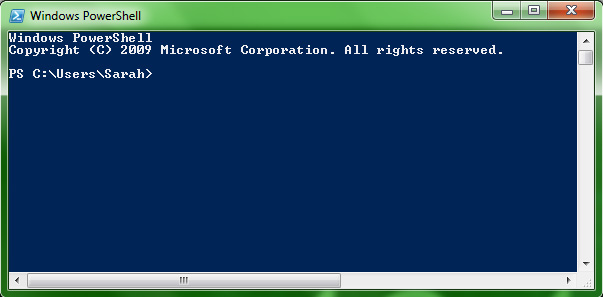
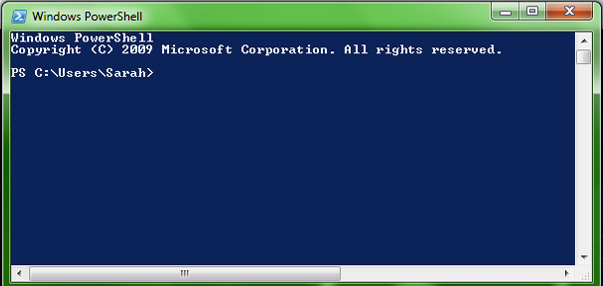
Formatting and updated screeshots.

Changed region(s): [[0.0, 0.0, 1.0, 1.0]]

diff --git a/1-HTML-CSS/week3/day4/1-command_line.md b/1-HTML-CSS/week3/day4/1-command_line.md
@@ -30,10 +30,10 @@ For Windows, open the application called **Powershell**:
 
 What you should see is a relatively blank window. Terminal (Mac) has a white background and the Powershell (Windows) has a blue/black background, by default.
 
-Terminal (Mac)
+**Terminal (Mac)** 
 ![terminal](lesson-images/terminal.jpg)
 
-Powershell (Windows)
+**Powershell (Windows)**
 ![powershell](lesson-images/powershell.jpg)
 
 ### The prompt
